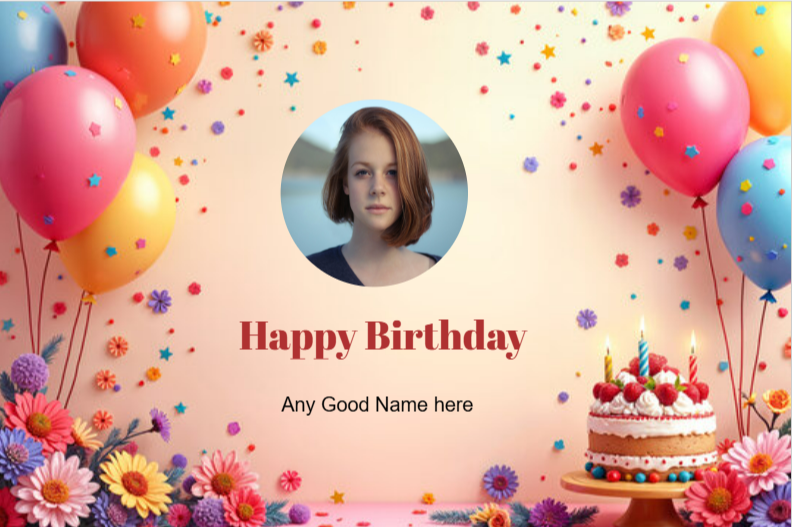
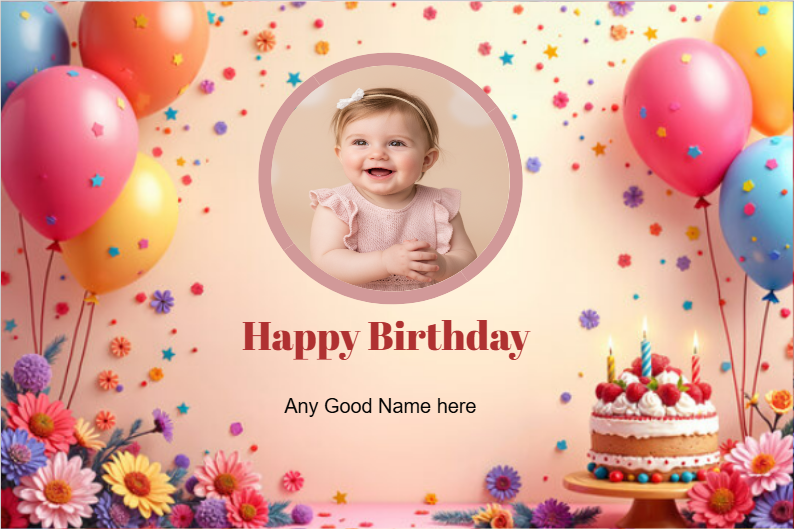
Changes

diff --git a/database/seeders/CardTemplatesTableSeeder.php b/database/seeders/CardTemplatesTableSeeder.php
@@ -39,8 +39,8 @@ class CardTemplatesTableSeeder extends Seeder
                         [
                             'type' => 'image',
                             'id' => 'img1',
-                            'src' => '/images/greeting-cards/element/g-user-2.jpeg',
-                            'css' => 'position: absolute;top: 31px;left: 184px;width: 200px;height: 190px;border: 1px solid rgb(136, 136, 136);cursor: move;z-index: 28; border-radius: 50%;',
+                            'src' => '/images/greeting-cards/element/g-user-2.png',
+                            'css' => 'position: absolute; top: 39px; left: 194px; width: 200px; height: 190px; border: 10px solid rgb(209, 153, 153); cursor: move; z-index: 12; transform: rotate(9.52304deg); border-radius: 50%;',
                         ],                        
                     ]
                 ]),
